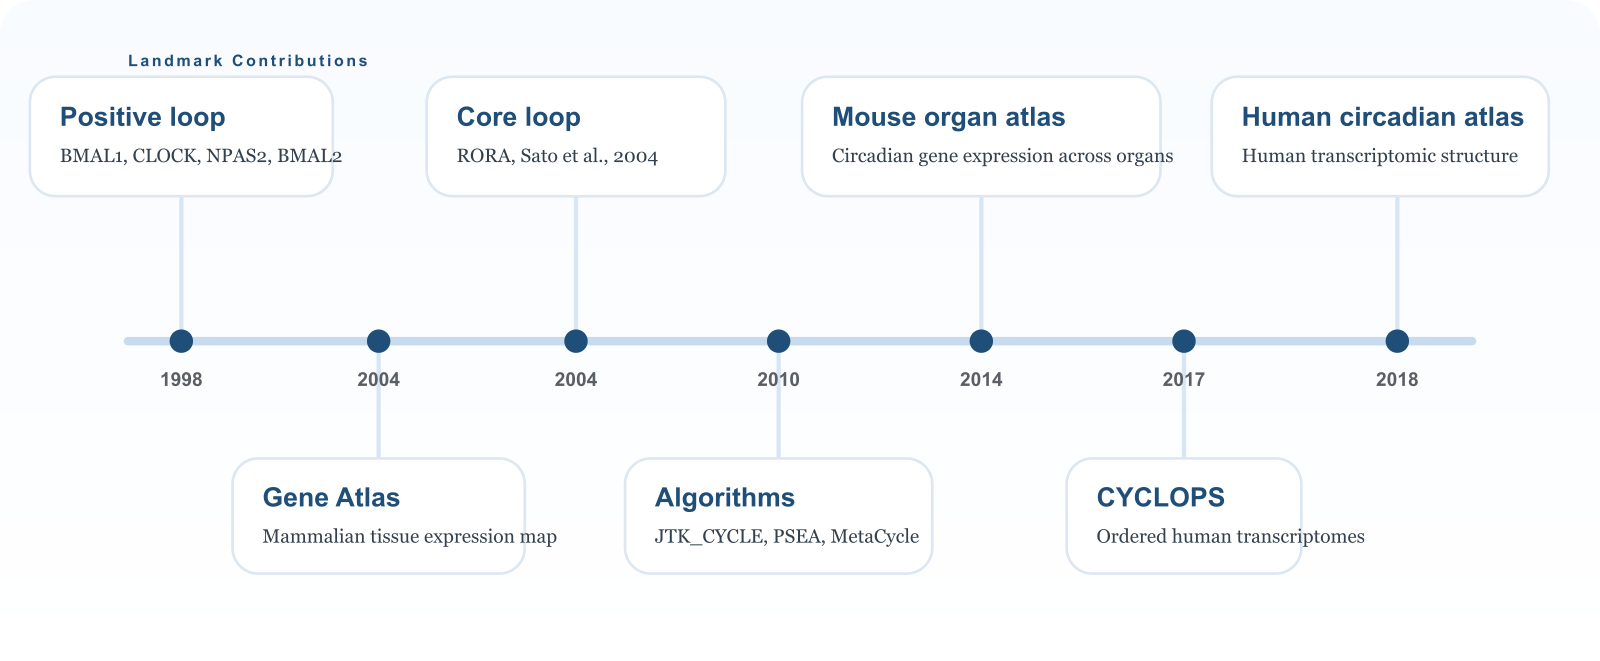
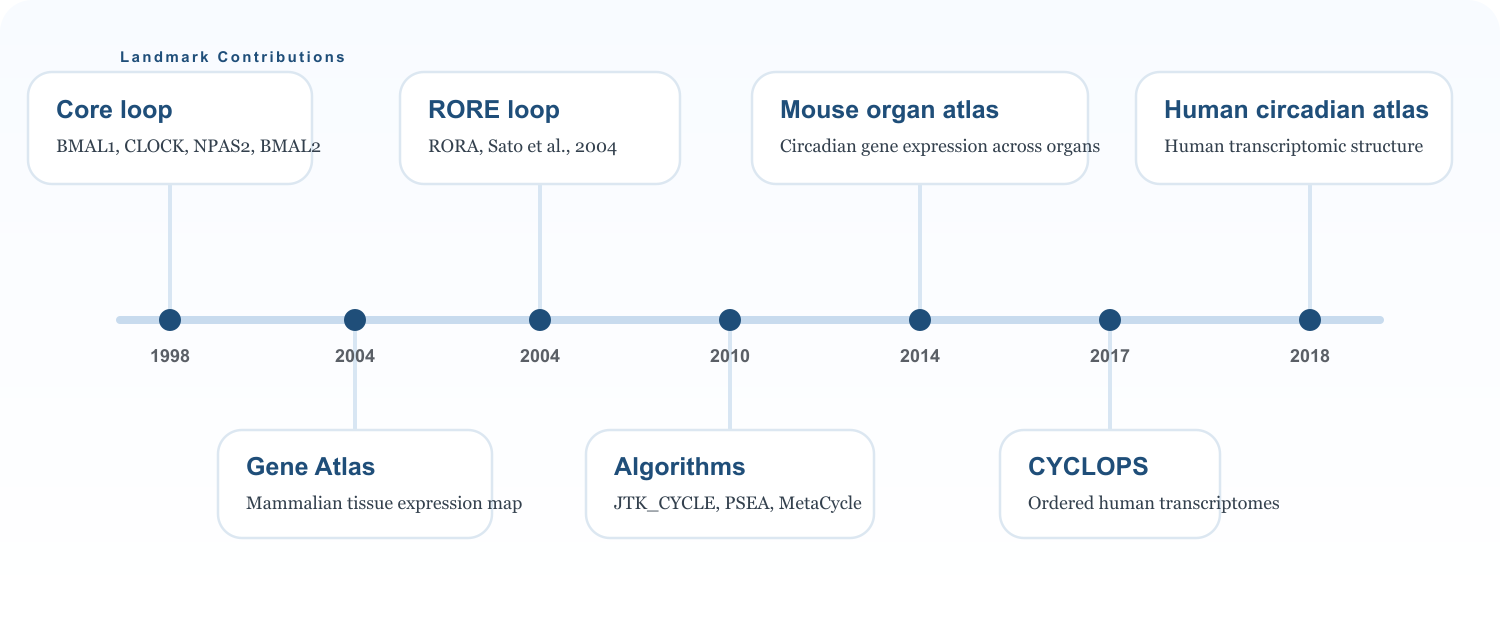
Correct homepage loop terminology

diff --git a/index.html b/index.html
@@ -19,14 +19,14 @@ circadian biology, systems biology, and circadian medicine, with
 landmark contributions in molecular clocks, functional genomics,
 algorithms, and public resources.">
   <meta property="og:url" content="https://hogeneschlab.org/">
-  <meta property="og:image" content="https://hogeneschlab.org/assets/images/landmark-contributions-map.png?v=20260313-1">
+  <meta property="og:image" content="https://hogeneschlab.org/assets/images/landmark-contributions-map.png?v=20260314-1">
   <meta name="twitter:card" content="summary_large_image">
   <meta name="twitter:title" content="Hogenesch Lab">
   <meta name="twitter:description" content="Hogenesch Lab studies
 circadian biology, systems biology, and circadian medicine, with
 landmark contributions in molecular clocks, functional genomics,
 algorithms, and public resources.">
-  <meta name="twitter:image" content="https://hogeneschlab.org/assets/images/landmark-contributions-map.png?v=20260313-1">
+  <meta name="twitter:image" content="https://hogeneschlab.org/assets/images/landmark-contributions-map.png?v=20260314-1">
   <link rel="stylesheet" href="styles.css?v=20260310-1">
 </head>
 <body>
@@ -98,7 +98,7 @@ Major published contributions
 <div>
 <ul class="landmark-list">
 <li>
-Defining the positive loop of the mammalian circadian clock through
+Defining the core loop of the mammalian circadian clock through
 BMAL1, CLOCK, NPAS2, and BMAL2.
 </li>
 <li>
@@ -126,7 +126,7 @@ Creation of CircaDB as a public circadian gene-expression resource.
 </ul>
 </div>
 <figure class="feature-figure">
-<img src="assets/images/landmark-contributions-map.svg?v=20260313-1" alt="Chronological timeline showing the lab's landmark contributions across clock biology, atlases, algorithms, human ordering, and public resources." />
+<img src="assets/images/landmark-contributions-map.svg?v=20260314-1" alt="Chronological timeline showing the lab's landmark contributions across clock biology, atlases, algorithms, human ordering, and public resources." />
 <figcaption>
 A chronological view of the lab’s major contributions, with time as the
 organizing variable across molecular clock biology, atlas-scale

diff --git a/page-template.html b/page-template.html
@@ -13,11 +13,11 @@
   <meta property="og:title" content="$if(seo_title)$$seo_title$$else$$title$ | Hogenesch Lab$endif$">
   <meta property="og:description" content="$if(description)$$description$$else$Hogenesch Lab studies circadian biology, systems biology, and circadian medicine across clocks, transcriptomes, and public resources.$endif$">
   <meta property="og:url" content="$if(canonical)$$canonical$$else$https://hogeneschlab.org$permalink$$endif$">
-  <meta property="og:image" content="https://hogeneschlab.org/assets/images/landmark-contributions-map.png?v=20260313-1">
+  <meta property="og:image" content="https://hogeneschlab.org/assets/images/landmark-contributions-map.png?v=20260314-1">
   <meta name="twitter:card" content="summary_large_image">
   <meta name="twitter:title" content="$if(seo_title)$$seo_title$$else$$title$ | Hogenesch Lab$endif$">
   <meta name="twitter:description" content="$if(description)$$description$$else$Hogenesch Lab studies circadian biology, systems biology, and circadian medicine across clocks, transcriptomes, and public resources.$endif$">
-  <meta name="twitter:image" content="https://hogeneschlab.org/assets/images/landmark-contributions-map.png?v=20260313-1">
+  <meta name="twitter:image" content="https://hogeneschlab.org/assets/images/landmark-contributions-map.png?v=20260314-1">
   <link rel="stylesheet" href="styles.css?v=20260310-1">
 </head>
 <body>

diff --git a/index.md b/index.md
@@ -57,7 +57,7 @@ description: Hogenesch Lab studies circadian biology, systems biology, and circa
 <div class="landmark-shell">
 <div>
 <ul class="landmark-list">
-<li>Defining the positive loop of the mammalian circadian clock through BMAL1, CLOCK, NPAS2, and BMAL2.</li>
+<li>Defining the core loop of the mammalian circadian clock through BMAL1, CLOCK, NPAS2, and BMAL2.</li>
 <li>Creation of Gene Atlas, one of the first comprehensive maps of gene expression across mammalian tissues.</li>
 <li>Defining the mammalian circadian transcriptome with genome-scale temporal profiling.</li>
 <li>Creation of the circadian gene expression atlas across mouse organs.</li>
@@ -67,7 +67,7 @@ description: Hogenesch Lab studies circadian biology, systems biology, and circa
 </ul>
 </div>
 <figure class="feature-figure">
-<img src="assets/images/landmark-contributions-map.svg?v=20260313-1" alt="Chronological timeline showing the lab's landmark contributions across clock biology, atlases, algorithms, human ordering, and public resources." />
+<img src="assets/images/landmark-contributions-map.svg?v=20260314-1" alt="Chronological timeline showing the lab's landmark contributions across clock biology, atlases, algorithms, human ordering, and public resources." />
 <figcaption>A chronological view of the lab's major contributions, with time as the organizing variable across molecular clock biology, atlas-scale genomics, computational methods, and public resources.</figcaption>
 </figure>
 </div>
